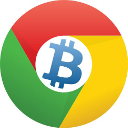
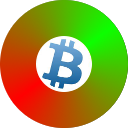
updated images for google branding compliance

diff --git a/bitchrome.css b/bitchrome.css
@@ -1,10 +1,9 @@
 .bitchrome-address{
-	background-image: url('chrome-extension://__MSG_@@extension_id__/bitchrome-address.png');
+	background-image: url('chrome-extension://__MSG_@@extension_id__/bitchrome-48.png');
 	background-size:16px 16px;
 	width: 16px;
 	height: 16px;
 	margin: 4px;
 	display: inline-block;
-
 }
 
